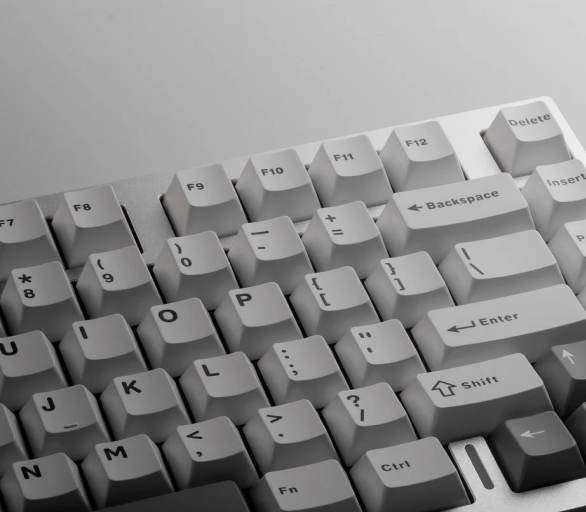
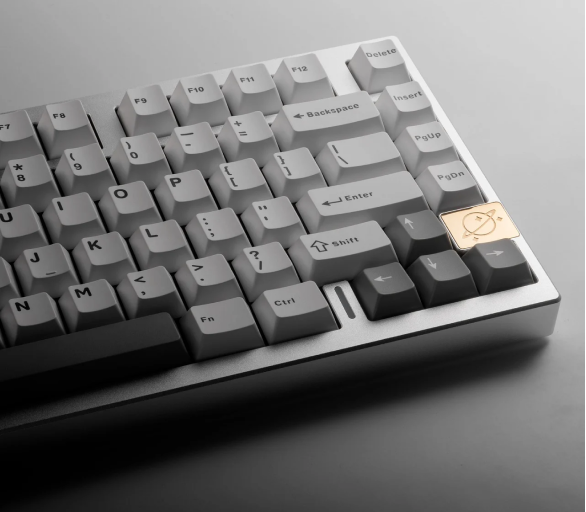
added a picture of the keyboard

diff --git a/lib/CreateAccount/createAccountPage.dart b/lib/CreateAccount/createAccountPage.dart
@@ -2,33 +2,37 @@ import 'package:flutter/material.dart';
 import '../design/colors.dart';
 
 class createAccountPage extends StatelessWidget {
-
   createAccountPage({Key? key}) : super(key: key);
 
   @override
   Widget build(BuildContext context) {
-
     double viewPortWidth = MediaQuery.of(context).size.width;
+    double viewPortHeight = MediaQuery.of(context).size.height;
 
     return Scaffold(
         body: Container(
-          child: Stack(
-            children: [
-              Container(),
-              Container(),
-              Container(
-                  child: Image.asset(
-                      "assets/keyboard.png",
-                    fit: BoxFit.fitHeight,
-                  )
-              ),
-            ],
+      child: Stack(
+        children: [
+          Align(
+            alignment: Alignment.centerRight,
+            child: Container(
+                padding: EdgeInsets.zero,
+                margin: EdgeInsets.zero,
+                height: viewPortHeight,
+                width: viewPortWidth * 0.6,
+                child: Image.asset(
+                  "assets/keyboard.png",
+                  fit: BoxFit.fill,
+                )),
           ),
-        )
-    );
+          Container(),
+          Container(),
+
+        ],
+      ),
+    ));
   }
 }
-
 
 // LayoutBuilder(
 // builder: (BuildContext context, BoxConstraints constraints) {
